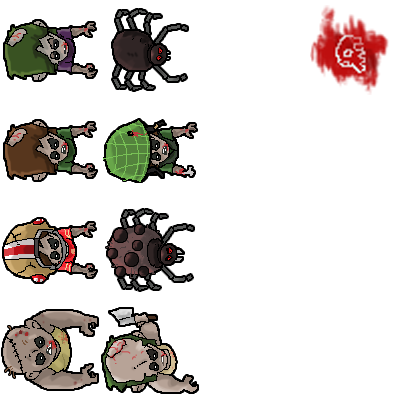
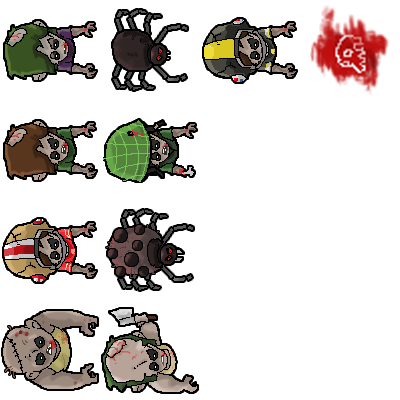
release v0.9.1a see patchnote for more info

Changed region(s): [[0.48, 0.03, 0.75, 0.21]]

diff --git a/js/CharacterManager.class.js b/js/CharacterManager.class.js
@@ -20,6 +20,7 @@ module.exports = function CharacterManager(){
             taille:this.LARGEUR_PERSO,
             agressivite:Math.random()*150 -75,
             instance:instance,
+            PAS:this.PAS,
             special:function(){}
          };
 
@@ -46,6 +47,21 @@ module.exports = function CharacterManager(){
                 if(args.type=="defense"){
                     //on court un peu plus vite si on prend des dégats
                     this.speed=this.speed < 9 ? this.speed + 0.5 : 9;  
+                }
+            }
+         }
+         //Deuxième rapide, 20DPS plus violent que le premier
+          if(type==this.ZOMBIE_RAPIDE2){
+            result.maxSpeed=this.PAS*0.8;
+            result.life=200;
+            result.attaque.degats=5;
+            result.attaque.delaiMax=5;
+            result.style=type;
+            result.distanceVision=this.MAX_DIAGONALE_PLAYER;
+            result.special=function(args){
+                if(args.type=="defense"){
+                    //on court un peu plus vite si on prend des dégats
+                    this.speed=this.speed < this.PAS*1.2 ? this.speed + 0.5 : this.PAS*1.2;  
                 }
             }
          }
@@ -304,25 +320,25 @@ module.exports = function CharacterManager(){
 		var result={};
 
 		var nombre={};
-		nombre[this.ZOMBIE_NORMAL]= {     0:10, 1:20, 2:30, 3:40, 4:50, 5:0,  6:30, 7:30, 8:30, 9:30, 10:0, 11:0, 12:0, 13:0, 14:0, 15:0, 16:0, 17:0, 18:0, 19:0, 20:0};
-		nombre[this.ZOMBIE_RAPIDE]= {     0:0 , 1:0,  2:5,  3:15, 4:30, 5:0,  6:30, 7:30, 8:30, 9:30, 10:0, 11:0, 12:0, 13:0, 14:0, 15:0, 16:0, 17:0, 18:0, 19:0, 20:0};
-		nombre[this.ZOMBIE_GROS]= {       0:0 , 1:0,  2:0,  3:0,  4:1,  5:0,  6:5,  7:3,  8:2,  9:2,  10:0, 11:0, 12:0, 13:0, 14:0, 15:0, 16:0, 17:0, 18:0, 19:0, 20:0};
-		nombre[this.ZOMBIE_TRES_RAPIDE]= {0:0 , 1:0,  2:0,  3:0,  4:0,  5:0,  6:10, 7:20, 8:10, 9:10, 10:0, 11:200, 12:0, 13:0, 14:0, 15:0, 16:0, 17:0, 18:0, 19:0, 20:0};
-		nombre[this.ZOMBIE_RESISTANT]= {  0:0 , 1:0,  2:0,  3:0,  4:0,  5:2,  6:0,  7:0,  8:1,  9:2,  10:0, 11:0, 12:0, 13:0, 14:0, 15:0, 16:0, 17:0, 18:0, 19:0, 20:0};
-		nombre[this.ZOMBIE_BOSS1]= {      0:0 , 1:0,  2:0,  3:0,  4:0,  5:0,  6:0,  7:0,  8:0,  9:0,  10:1, 11:0, 12:0, 13:0, 14:0, 15:0, 16:0, 17:0, 18:0, 19:0, 20:0};
-		nombre[this.ZOMBIE_ARME]= {       0:0 , 1:0,  2:0,  3:0,  4:0,  5:2,  6:0,  7:0,  8:2,  9:2,  10:0, 11:0, 12:0, 13:0, 14:0, 15:0, 16:0, 17:0, 18:0, 19:0, 20:0};
-
+		nombre[this.ZOMBIE_NORMAL]= {     0:10, 1:20, 2:30, 3:40, 4:50, 5:0,  6:30, 7:30, 8:30, 9:30, 10:0,  11:30, 12:30, 13:30, 14:30, 15:0, 16:0, 17:0, 18:0, 19:0, 20:0};
+		nombre[this.ZOMBIE_RAPIDE]= {     0:0 , 1:0,  2:5,  3:15, 4:30, 5:0,  6:30, 7:30, 8:20, 9:20, 10:10, 11:10, 12:10, 13:10, 14:10, 15:0, 16:0, 17:0, 18:0, 19:0, 20:0};
+		nombre[this.ZOMBIE_GROS]= {       0:0 , 1:0,  2:0,  3:0,  4:1,  5:0,  6:3,  7:3,  8:2,  9:2,  10:0,  11:2, 12:2,   13:2,  14:2,  15:0, 16:0, 17:0, 18:0, 19:0, 20:0};
+		nombre[this.ZOMBIE_TRES_RAPIDE]= {0:0 , 1:0,  2:0,  3:0,  4:0,  5:0,  6:0,  7:0,  8:0,  9:1, 10:20, 11:20,12:20,  13:25, 14:30,  15:0, 16:200,17:0, 18:0, 19:0, 20:0};
+		nombre[this.ZOMBIE_RESISTANT]= {  0:0 , 1:0,  2:0,  3:0,  4:0,  5:2,  6:0,  7:0,  8:1,  9:2,  10:1,  11:1, 12:1,   13:1,  14:1,  15:0, 16:0, 17:0, 18:0, 19:0, 20:0};
+		nombre[this.ZOMBIE_BOSS1]= {      0:0 , 1:0,  2:0,  3:0,  4:0,  5:0,  6:0,  7:0,  8:0,  9:0,  10:0,  11:0, 12:0,   13:0,  14:0,  15:1, 16:0, 17:0, 18:0, 19:0, 20:0};
+		nombre[this.ZOMBIE_ARME]= {       0:0 , 1:0,  2:0,  3:0,  4:0,  5:2,  6:0,  7:0,  8:2,  9:2,  10:5,  11:1, 12:1,   13:3,  14:3,  15:0, 16:0, 17:0, 18:0, 19:0, 20:0};
+    nombre[this.ZOMBIE_RAPIDE2]={     0:0 , 1:0,  2:0,  3:0,  4:0,  5:2,  6:5,  7:10, 8:20, 9:20, 10:10,  11:20, 12:20, 13:20, 14:20, 15:0, 16:0, 17:0, 18:0, 19:0, 20:0};
 		//Affichage des totaux par vague dans la console, pour vérification.
-		for(var i=0 ; i<=10 ; i++){
+		for(var i=0 ; i<=15 ; i++){
 			var totalTmp=0;
       var vieTmp=0;
       var zombieTmp=null;
-			for(var j=1;j<=7;j++){
+			for(var j=1;j<=8;j++){
 				totalTmp+=nombre[j][i];
                 zombieTmp=this.creationZombie(null,0,j);
                 vieTmp+=zombieTmp.life * nombre[j][i];
             }
-			//console.log('Vague ' + i + ': ' + totalTmp + ' zombies. ' + vieTmp + ' PV.');
+			console.log('Vague ' + i + ': ' + totalTmp + ' zombies. ' + vieTmp + ' PV.');
 		}
 
 		//Ajout des zombies normaux
@@ -339,6 +355,8 @@ module.exports = function CharacterManager(){
 		result[this.ZOMBIE_BOSS1]={type:this.ZOMBIE_BOSS1, nombre:nombre[this.ZOMBIE_BOSS1][level]};
 		//Ajout des zombies armé
 		result[this.ZOMBIE_ARME]={type:this.ZOMBIE_ARME, nombre:nombre[this.ZOMBIE_ARME][level]};
+    //ajout des sprinters un peu plus sprinters
+    result[this.ZOMBIE_RAPIDE2]={type:this.ZOMBIE_RAPIDE2, nombre:nombre[this.ZOMBIE_RAPIDE2][level]};
 		return result;
 	}
 
@@ -374,6 +392,7 @@ module.exports = function CharacterManager(){
   	this.ZOMBIE_RESISTANT=5;
   	this.ZOMBIE_BOSS1=6;
   	this.ZOMBIE_ARME=7;
+    this.ZOMBIE_RAPIDE2=8;
     this.ZOMBIE_BOSS2=-1;
     this.ZOMBIE_BOSS3=-1;
     this.ZOMBIE_EXPLOSIF=-1;//??

diff --git a/js/GameMap.class.js b/js/GameMap.class.js
@@ -81,12 +81,7 @@ function GameMap(){
 				if(item.id==gameCore.playerId){
 					$('#joueur-life').text(parseInt(item.life));
 					//coloration de la case
-					if(item.life>75)
-						$('#joueur-life').css('color','rgb(70,128,51)');
-					else if(item.life>25 && item.life<=75)
-						$('#joueur-life').css('color','rgb(179,121,15)');
-					else
-						$('#joueur-life').css('color','rgb(162,13,17)');
+					this.colorationPseudo($('#joueur-life')[0], item.life);
 				}
 			}
 			else if(item.type=='numero_vague'){
@@ -122,7 +117,6 @@ function GameMap(){
 		//Update de tous les joueurs
 		var player;
 		var pseudo;
-		var life;
 		for(var idPerso in datas.listeJoueurs){
 			player=document.getElementById('player'+idPerso);
 			pseudo=document.getElementById('player'+idPerso+'-pseudo');
@@ -139,20 +133,23 @@ function GameMap(){
 				pseudo.id='player'+idPerso+'-pseudo';
 				pseudo.className='map-item player-name';
 				pseudo.style.display=OPTIONS.display_names ? 'block' : 'none';
+				pseudo.style.backgroundColor="rgba(0,0,0,0.8)";
+				this.colorationPseudo(pseudo, datas.listeJoueurs[idPerso].life);
 				this.movePseudoTo(pseudo, datas.listeJoueurs[idPerso].x,datas.listeJoueurs[idPerso].y);
 				pseudo.innerHTML=datas.listeJoueurs[idPerso].pseudo;
-				life=document.createElement('div');
-				life.id='player'+idPerso+'-life';
-				life.innerHTML=datas.listeJoueurs[idPerso].life;
-				pseudo.appendChild(life);
 				this.rotate(player,datas.listeJoueurs[idPerso].angle);
 				this.divMap.appendChild(pseudo);
 				this.divMap.appendChild(player);
 			}
 			else{
 				pseudo.style.display=OPTIONS.display_names ? 'block' : 'none';
-				life.innerHTML=datas.listeJoueurs[idPerso].life;
+				this.colorationPseudo(pseudo, datas.listeJoueurs[idPerso].life);
 				this.movePseudoTo(pseudo, datas.listeJoueurs[idPerso].x,datas.listeJoueurs[idPerso].y);
+				//On regarde si y'a le zombiezslayer ou pas pour colorer le fond du pseudo
+				if(datas.listeJoueurs[idPerso].buffs['zombizSlayer'] != undefined)
+					pseudo.style.backgroundColor='rgba(3,6,80, 0.8)';
+				else
+					pseudo.style.backgroundColor="rgba(0,0,0,0.8)";
 				this.moveTo(player, datas.listeJoueurs[idPerso].x,datas.listeJoueurs[idPerso].y);
 				//player.setAttribute('data-life',datas.listeJoueurs[idPerso].life);
 				if(datas.listeJoueurs[idPerso].alive==true){
@@ -256,6 +253,19 @@ function GameMap(){
 		if(!alive){
 			this.idZombieTarget=-1;
 		}
+	}
+
+	this.colorationPseudo=function(div, pdv){
+		if(pdv>=200)
+			div.style.color='rgb(59,162,106)';
+		else if(pdv>=100 && pdv<200)
+			div.style.color='rgb(70,128,51)';
+		else if(pdv>=50 && pdv<100)
+			div.style.color='rgb(221,190,4)';
+		else if(pdv>25 && pdv<50)
+			div.style.color='rgb(179,121,15)';
+		else
+			div.style.color='rgb(162,13,17)';
 	}
 
 	this.calculDistance=function(x, y){

diff --git a/index.html b/index.html
@@ -114,8 +114,19 @@
 			<a href="#" onclick="$('#changelog').show();return false;" style="color:white;margin-left:400px;">Afficher le changelog</a>
 			<textarea id="changelog">*************** PATCH NOTE **************************
 
+--- v 0.9.1 alpha (20130224)
+	NEW :
+		Ajout de nouvelles vagues ! 15 vagues s'offrent à vous maintenant !
+		Les pseudos des joueurs se colorent en fonction de leur point de vie
+		Les joueurs avec le bonus "Zombiz Slayer" possède maintenant une aura bleu foncée
+		Un petit message apparait maintenant pour prevenir qu'on est spectateur
+		Un nouveau zombie fait son apparition !
+	EDIT :
+		Légère réduction de la hitbox des joueurs
+		Modification des vagues existantes
+
 --- v 0.9.0.5 alpha (20130223)
-	ADD :
+	NEW :
 		Les anciens messages du tchat se suppriment maintenant (evite le bug où les phrases se coupent)
 	EDIT :
 		Inversion du DEagle et du P99 (dédicace à Elesday !)
@@ -123,7 +134,7 @@
 		Modification des proportions du tchat et suppression de quelques phrases inutiles
 
 --- v 0.9.0.4 alpha (20130223)
-	ADD :
+	NEW :
 		Une option pour afficher ou non le sang fait son apparition
 		La vie des autres joueurs s'affiche maintenant sous eux
 	EDIT :
@@ -191,7 +202,7 @@
 		Correction de certains crash serveur
 
 --- v 0.8.1 alpha (20130217)
-	ADD :
+	NEW :
 		Ajout d'un total sur le leaderboard
 		La vie du zombie sur lequel on tire s'affiche désormais dans une barre colorée
 	EDIT :
@@ -398,7 +409,7 @@
 			<p style="float:left">Développement : Mikaël B. aka. WhiteSlash.<br/>
 			Un grand merci à <a href="http://les.utopolitistes.2.overblog.com/">Boris</a> pour son super travail sur les graphismes (<a href="http://les.utopolitistes.2.overblog.com/">son blog</a>).</p>
 			<p id="copyright">Copyright ©2013</p>
-			<p id="version">Version 0.9.0.5 alpha (20130223)</p>
+			<p id="version">Version 0.9.1 alpha (20130224)</p>
 		</footer>
 	</div><!-- div#wrapper -->
 </body>

diff --git a/js/ServerMap.class.js b/js/ServerMap.class.js
@@ -279,7 +279,7 @@ module.exports = function ServerMap(io,characterManager, dbCore)
       //on test si on a bien un joueur proche (cas où 0 joueurs)
       if(joueurLePlusProche!=null && zombie.aware==true){
 
-         if(distancePlusCourte < joueurLePlusProche.taille/2 + zombie.taille/2){
+         if(distancePlusCourte < joueurLePlusProche.taille/2.1 + zombie.taille/2.1){
             if(zombie.attaque.compteAReboursAttaque ==0){
                joueurLePlusProche.life-=zombie.attaque.degats;
                zombie.special({'type':'attaque', 'target':joueurLePlusProche});

diff --git a/jeu.html b/jeu.html
@@ -103,7 +103,7 @@
 			Pour tout bug ou suggestion, m'envoyer un mail @<a href="mailto:mikael.blotin@gmail.com">mikael.blotin@gmail.com</a><br/>
 			Un grand merci à <a href="http://les.utopolitistes.2.overblog.com/">Boris</a> pour son super travail sur les graphismes (<a href="http://les.utopolitistes.2.overblog.com/">son blog</a>).</p>
 			<p id="copyright">Copyright ©2013</p>
-			<p id="version">Version 0.9.0.5 alpha (20130223)</p>
+			<p id="version">Version 0.9.1 alpha (20130224)</p>
 		</footer>
 	</div><!-- div#wrapper -->
 </body>

diff --git a/js/GameCore.class.js b/js/GameCore.class.js
@@ -134,6 +134,7 @@ function GameCore(pseudo,mdp){
 		this.socket.on('player_spectateur', function(datas){
 			if(datas.id==gameCore.playerId){
 				gameMap.desinit();
+				gameCore.tchat('', 'Vous êtes spectateur, vous pourrez rejoindre à la fin de la manche.');
 			}
 		});
 		this.socket.on('player_revive', function(datas){

diff --git a/css/game.css b/css/game.css
@@ -33,10 +33,11 @@ src: url('HUD.ttf') format('truetype');
 .player-name{
 	z-index:9;
 	text-align: center;
-	font-size: 10px;
+	font-size: 11px;
 	width:70px;
 	overflow: hidden;
 	color:white;
+	border-radius:3px;
 }
 .map-item{
 	position:absolute;
